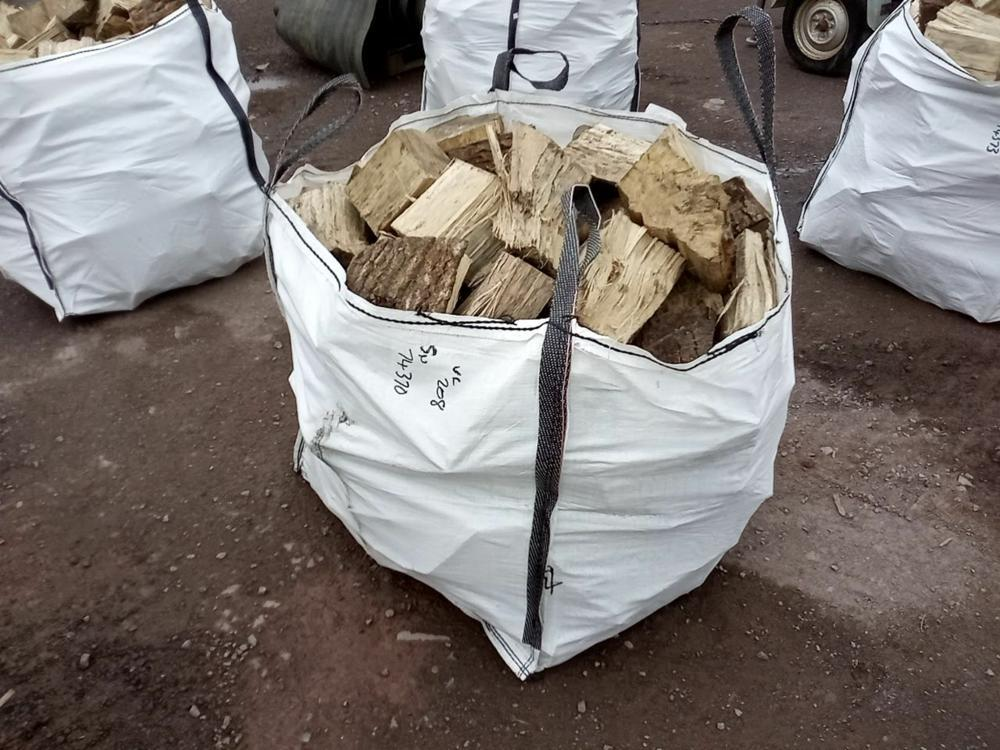
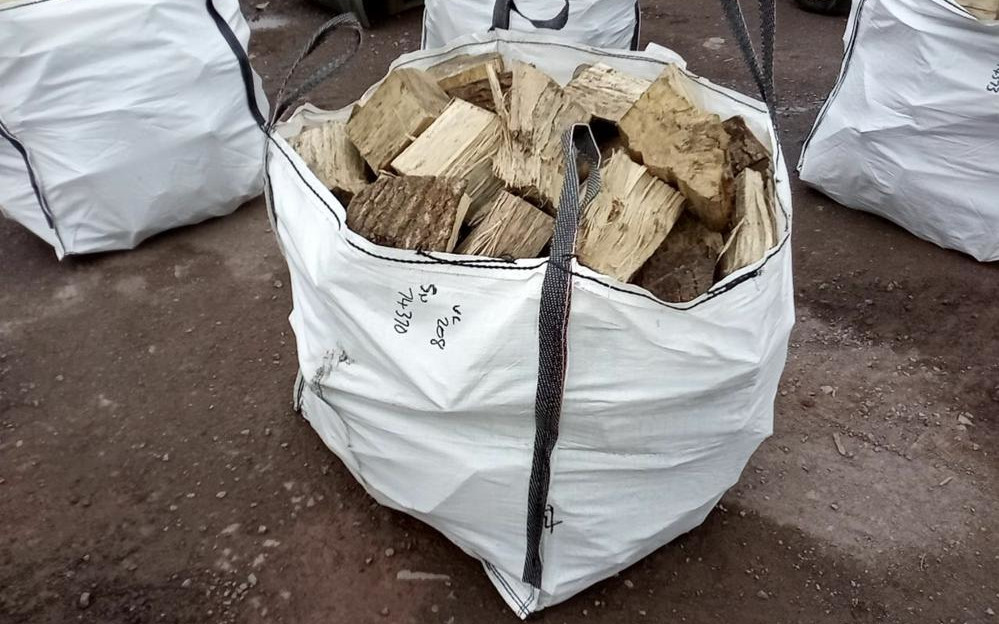
modify images for learn more

diff --git a/home/templates/home/index.html b/home/templates/home/index.html
@@ -44,13 +44,13 @@
                     <hr>
                     <div class="col-sm-12 col-md-6 p-3">
                         <h4>Damaging pests</h4>
-                        <img src="{% static 'EmeraldAshBorerdorsal.jpg' %}" alt="The Emerald Ash Borer" class="learnImage">
+                        <img src="{% static 'emerald-ash-borer.jpg' %}" alt="The Emerald Ash Borer" class="learnImage">
                         <p>Using kiln-dried wood is an essential tool in preventing the spread of damaging tree and shrub pests like the Emerald Ash Borer. The kiln-drying process destroys all pests and eggs hidden in the wood.</p>
                         <a href="https://www.in.gov/dnr/entomology/pests-of-concern/" target="_blank">Learn more about pests of concern (External link)</a>
                     </div>
                     <div class="col-sm-12 col-md-6 p-3">
                         <h4>Moisture content</h4>
-                        <img src="{% static 'firewood-moister-meter.jpg' %}" alt="Showing approx. 1 rick of stacked wood" class="learnImage">
+                        <img src="{% static 'firewood-moisture-meter.jpg' %}" alt="Moisture Meter" class="learnImage">
                         <p>An appropriate level of moisture in firewood is important for controlling creosote build-up in your chimney. It also makes the wood burn hotter and more evenly. Bark Farmers guarantees a maximum of 25% moisture in firewood at delivery, but most often is around 18%.</p>
                         <a href="https://trace.tennessee.edu/cgi/viewcontent.cgi?&httpsredir=1&article=1100&context=utk_agexfores" target="_blank">Learn more about the importance of moisture content in firewood (External link)</a>
                     </div>
@@ -68,7 +68,7 @@
                     </div>
                     <div class="col-sm-12 col-md-6 p-3">
                         <h4>Construction bag</h4>
-                        <img src="{% static 'construction-bag.png' %}" alt="Construction bag of wood" class="learnImage">
+                        <img src="{% static 'construction-bag.jpg' %}" alt="Construction bag of wood" class="learnImage">
                         <p>
                             A construction bag is a heavy-duty synthetic fabric bag. Bark Farmers collects a deposit on delivered construction bags which can be recovered by returning the bag to Bark Farmers. Construction bags are designed to hold one 
                             cubic meter of solid materials like sand or soil. When carrying bulk loose firewood, they hold roughly .7 cubic meters, considerably less than a ton. 
